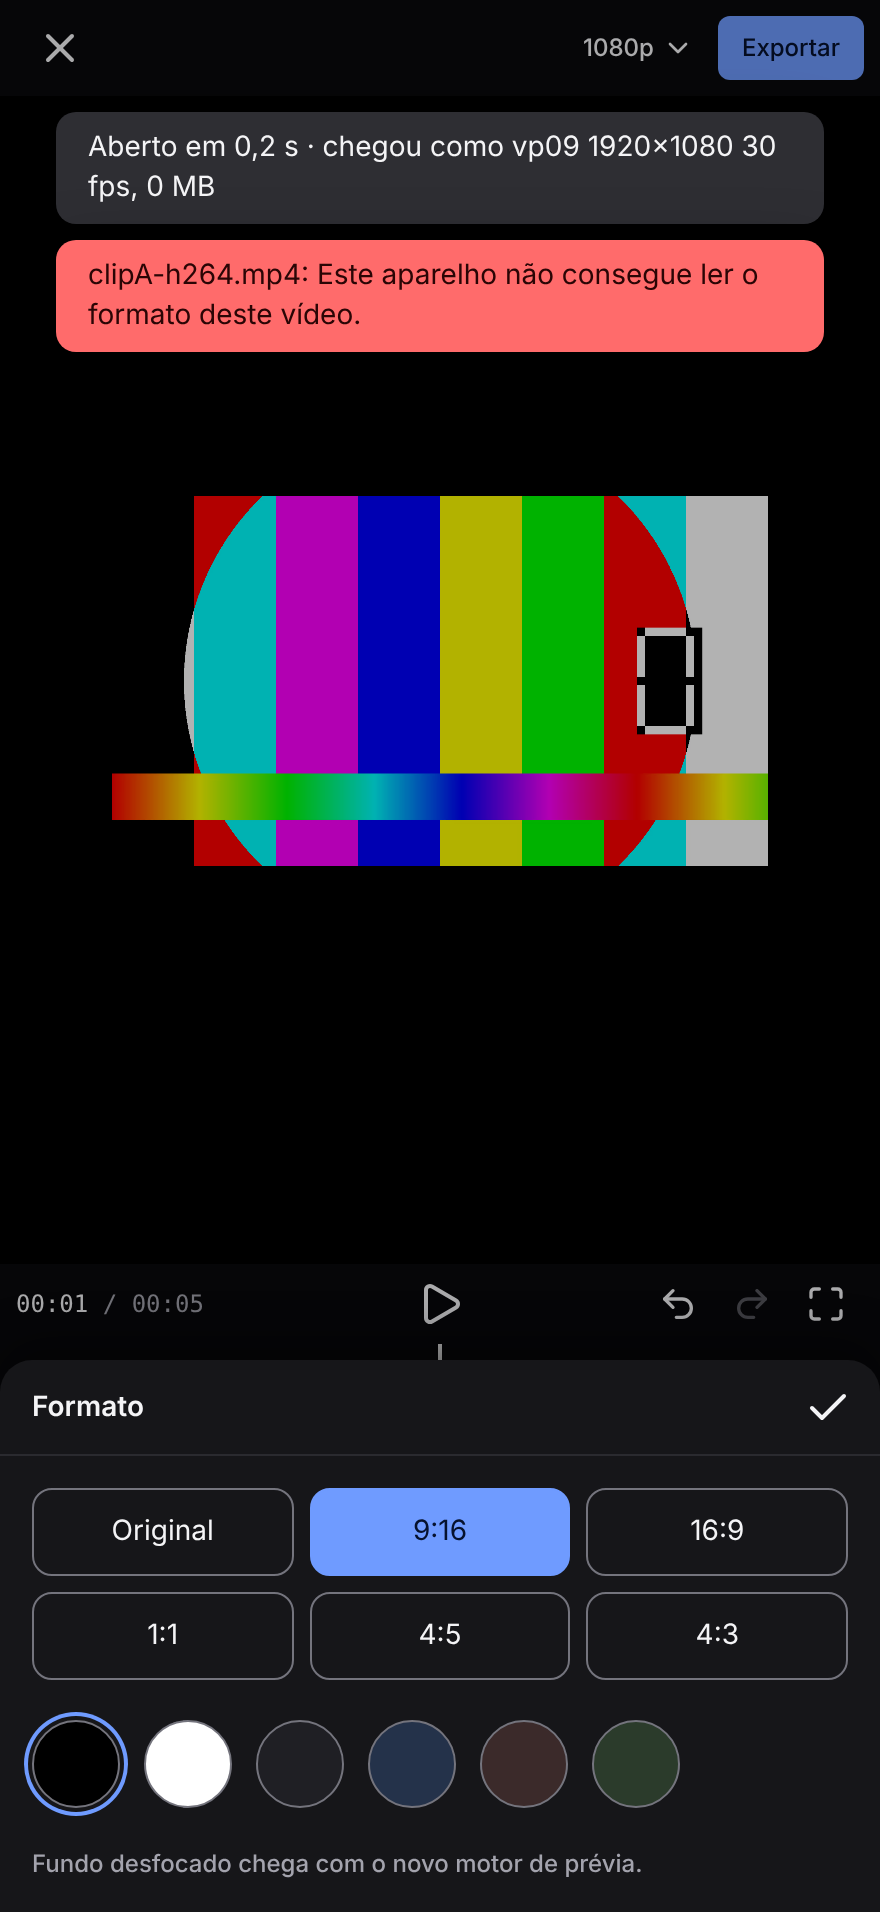
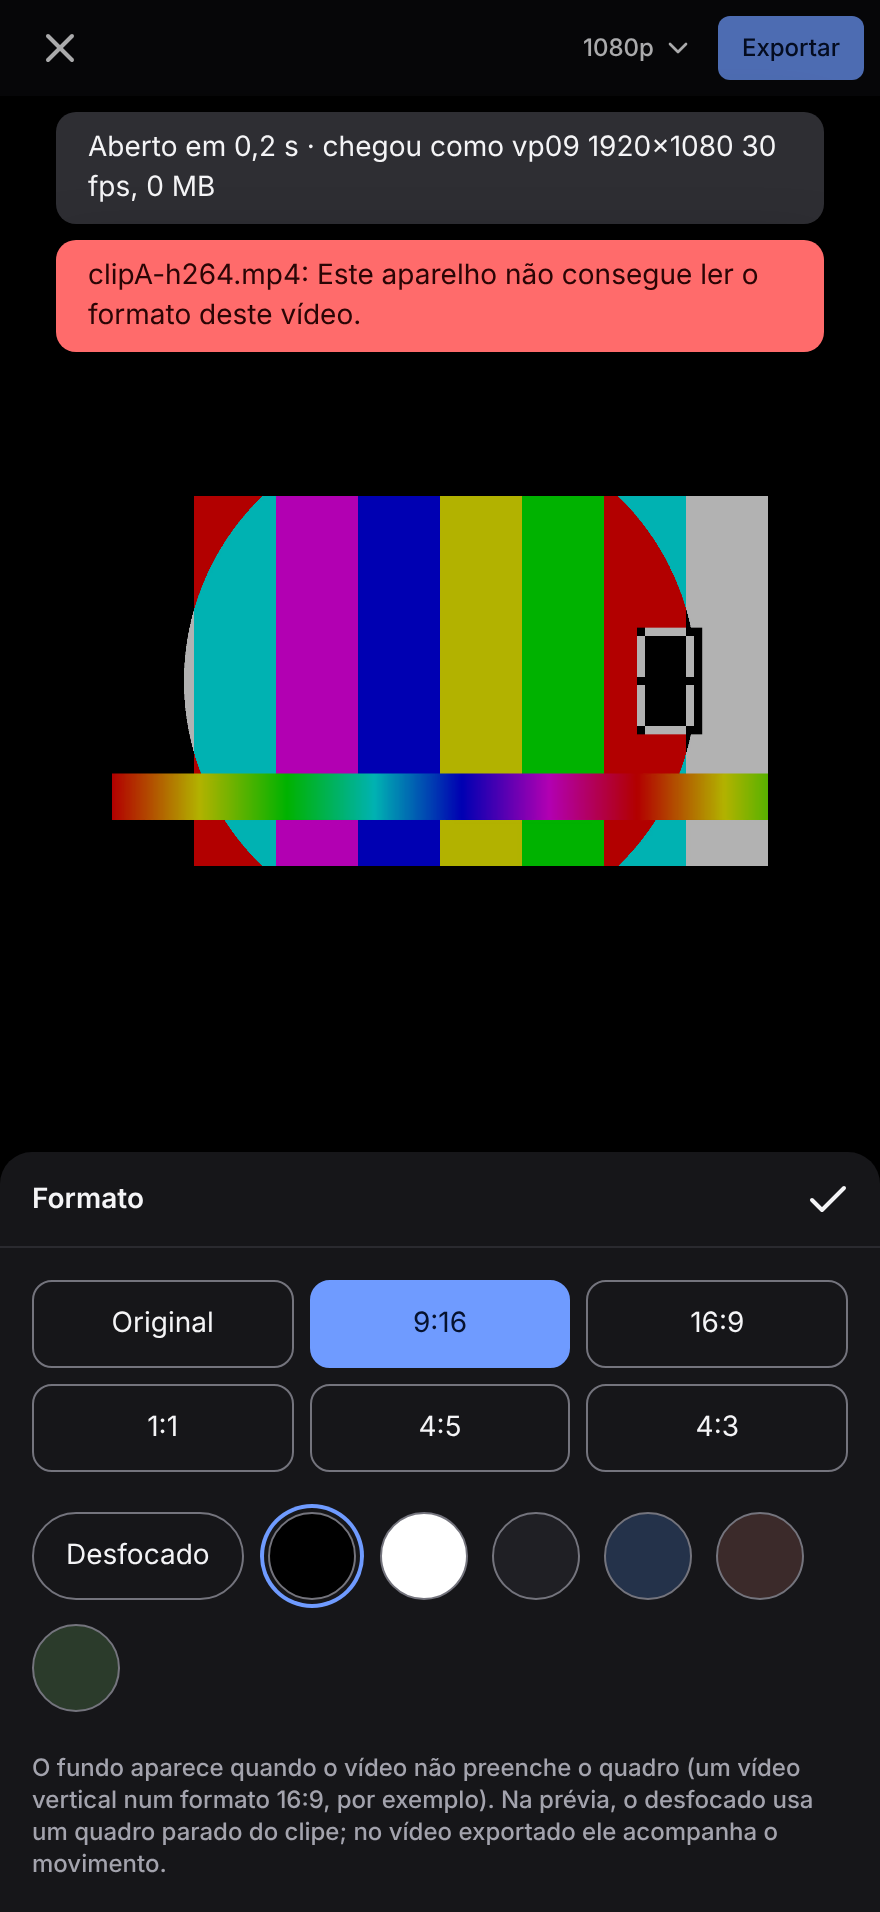
Close the must-haves: blurred background, missing-media check, offline
Blurred background behind pictures that don't fill the frame (export
follows the motion; preview blurs a still), and end-to-end checks for
replacing missing media and for opening the app offline.

Claude-Session: https://claude.ai/code/session_0171u1mNBnwSWvSmcMh16wpa

Changed region(s): [[0.0, 0.5863, 1.0, 0.9874], [0.9205, 0.7097, 0.9511, 0.7406]]

diff --git a/app/src/editor/player.ts b/app/src/editor/player.ts
@@ -13,24 +13,7 @@ import { audio } from "./audio";
 import { ALL_FORMATS, BlobSource, CanvasSink, Input } from "mediabunny";
 import { durationOf, frameSize, gainAt, mainClips, mainTrack, sourceTimeUs, transitionAt } from "./timeline";
 import { fxOf, layerCss, type LayerFx } from "./transitions";
-
-export function drawContain(
-  ctx: CanvasRenderingContext2D | OffscreenCanvasRenderingContext2D,
-  src: CanvasImageSource,
-  srcW: number,
-  srcH: number,
-  bg: string,
-) {
-  const W = ctx.canvas.width;
-  const H = ctx.canvas.height;
-  ctx.fillStyle = bg;
-  ctx.fillRect(0, 0, W, H);
-  if (!srcW || !srcH) return;
-  const s = Math.min(W / srcW, H / srcH);
-  const w = srcW * s;
-  const h = srcH * s;
-  ctx.drawImage(src, (W - w) / 2, (H - h) / 2, w, h);
-}
+import { containDraw, frameBgOf, drawFrame } from "./frame";
 
 export class Player {
   private urls = new Map<Id, string>();
@@ -58,6 +41,7 @@ export class Player {
     private canvas: HTMLCanvasElement,
     private fxCanvas: HTMLCanvasElement,
     private dip: HTMLElement,
+    private bgCanvas: HTMLCanvasElement,
   ) {
     video.playsInline = true;
     video.preload = "auto";
@@ -110,6 +94,8 @@ export class Player {
         this.stillsReady.set(key, b);
         const s = useEditor.getState();
         if (!s.playing) this.applyTransition(s.playheadUs);
+        this.bgKey = "";
+        this.paintBg();
       });
     }
     return null;
@@ -121,6 +107,34 @@ export class Player {
     el.style.transform = css.transform ?? "";
     el.style.clipPath = css.clipPath ?? "";
     el.style.zIndex = fx ? String(z) : "";
+  }
+
+  // Blurred background behind a video that does not fill the frame: a
+  // still of the clip, softened with CSS. Light, and the blur hides that it
+  // does not move.
+  private bgKey = "";
+  paintBg() {
+    const { doc, draft, assets } = useEditor.getState();
+    const d = draft ?? doc;
+    const clip = d && mainClips(d).find((c) => c.id === this.clipId);
+    const asset = clip && assets.get(clip.assetId);
+    if (!d || d.canvas.background.type !== "blur" || !clip || !asset || asset.kind === "image") {
+      this.bgCanvas.style.visibility = "hidden";
+      this.bgKey = "";
+      return;
+    }
+    const key = `${clip.id}`;
+    if (this.bgKey === key) return;
+    const bmp = this.still(asset, clip.inUs);
+    if (!bmp) return; // painted when the still is ready
+    const c = this.bgCanvas;
+    c.width = 160;
+    c.height = Math.round((160 * this.video.clientHeight) / Math.max(1, this.video.clientWidth)) || 284;
+    const ctx = c.getContext("2d")!;
+    const s = Math.max(c.width / bmp.width, c.height / bmp.height);
+    ctx.drawImage(bmp, (c.width - bmp.width * s) / 2, (c.height - bmp.height * s) / 2, bmp.width * s, bmp.height * s);
+    c.style.visibility = "visible";
+    this.bgKey = key;
   }
 
   // Shows the transition under tUs, or clears it. The playing clip is the
@@ -159,8 +173,7 @@ export class Player {
     }
     const key = `${stillClip.id}:${liveIsA}`;
     if (bmp && this.fxShown !== key) {
-      const bg = d.canvas.background.type === "color" ? d.canvas.background.color : "#000000";
-      drawContain(this.fxCanvas.getContext("2d")!, bmp, bmp.width, bmp.height, bg);
+      drawFrame(this.fxCanvas.getContext("2d")!, frameBgOf(d), containDraw(bmp, bmp.width, bmp.height));
       this.fxShown = key;
     } else if (!bmp) this.fxShown = "pending";
     this.fxCanvas.style.visibility = bmp ? "visible" : "hidden";
@@ -225,8 +238,7 @@ export class Player {
       this.canvas.width = width;
       this.canvas.height = height;
     }
-    const bg = d.canvas.background.type === "color" ? d.canvas.background.color : "#000000";
-    drawContain(this.canvas.getContext("2d")!, bmp, bmp.width, bmp.height, bg);
+    drawFrame(this.canvas.getContext("2d")!, frameBgOf(d), containDraw(bmp, bmp.width, bmp.height));
     this.show("image");
   }
 
@@ -277,6 +289,7 @@ export class Player {
     const asset = hit && assets.get(hit.clip.assetId);
     if (!hit || !asset) return this.show("none");
     this.clipId = hit.clip.id;
+    this.paintBg();
     if (asset.kind === "image") return this.paintImage(asset);
     const url = await this.urlFor(asset);
     if (!url || this.disposed) return this.show("none");
@@ -329,6 +342,7 @@ export class Player {
     const asset = useEditor.getState().assets.get(clip.assetId);
     this.clipId = clip.id;
     this.imageClock = null;
+    this.paintBg();
     if (!asset || asset.kind === "image") {
       this.video.pause();
       this.imageClock = { wall: performance.now(), t: clip.startUs + offsetUs };

diff --git a/app/src/screens/Editor.tsx b/app/src/screens/Editor.tsx
@@ -117,6 +117,7 @@ export function Editor({ projectId }: { projectId: Id }) {
   const canvasRef = useRef<HTMLCanvasElement>(null);
   const fxCanvasRef = useRef<HTMLCanvasElement>(null);
   const dipRef = useRef<HTMLDivElement>(null);
+  const bgCanvasRef = useRef<HTMLCanvasElement>(null);
   const stageBox = useRef<HTMLDivElement>(null);
   const [box, setBox] = useState({ w: 0, h: 0 });
   const player = useRef<Player | null>(null);
@@ -167,8 +168,8 @@ export function Editor({ projectId }: { projectId: Id }) {
   }, [projectId]);
 
   useEffect(() => {
-    if (state !== "ready" || !videoRef.current || !canvasRef.current || !fxCanvasRef.current || !dipRef.current) return;
-    const p = new Player(videoRef.current, canvasRef.current, fxCanvasRef.current, dipRef.current);
+    if (state !== "ready" || !videoRef.current || !canvasRef.current || !fxCanvasRef.current || !dipRef.current || !bgCanvasRef.current) return;
+    const p = new Player(videoRef.current, canvasRef.current, fxCanvasRef.current, dipRef.current, bgCanvasRef.current);
     player.current = p;
     void p.showAt(useEditor.getState().playheadUs);
     // repaint the frame under the playhead whenever it or the doc changes
@@ -259,6 +260,7 @@ export function Editor({ projectId }: { projectId: Id }) {
   const fit = Math.min(box.w / frame.width, box.h / frame.height) || 0;
   const stage = { w: Math.floor(frame.width * fit), h: Math.floor(frame.height * fit) };
   const bg = doc?.canvas.background.type === "color" ? doc.canvas.background.color : "#000000";
+  const blurBg = doc?.canvas.background.type === "blur";
 
   function togglePlay() {
     if (!player.current) return;
@@ -446,6 +448,13 @@ export function Editor({ projectId }: { projectId: Id }) {
           className={cn("relative overflow-hidden", state !== "ready" && "hidden")}
           style={{ width: stage.w, height: stage.h, background: bg }}
         >
+          {/* blurred background (when the format sheet asks for it) */}
+          <canvas
+            ref={bgCanvasRef}
+            aria-hidden
+            className="pointer-events-none absolute inset-0 size-full scale-110 blur-xl brightness-75"
+            style={{ visibility: "hidden" }}
+          />
           <video
             ref={videoRef}
             aria-label="Prévia do vídeo"
@@ -719,7 +728,23 @@ export function Editor({ projectId }: { projectId: Id }) {
                 </button>
               ))}
             </div>
-            <div role="radiogroup" aria-label="Cor do fundo" className="flex gap-3">
+            <div role="radiogroup" aria-label="Cor do fundo" className="flex flex-wrap gap-3">
+              <button
+                type="button"
+                role="radio"
+                aria-checked={blurBg}
+                aria-label="Fundo desfocado"
+                onClick={() => {
+                  const d = useEditor.getState().doc!;
+                  ed.commit({ ...d, canvas: { ...d.canvas, background: { type: "blur", amount: 30 } } }, "Fundo");
+                }}
+                className={cn(
+                  "flex h-11 items-center rounded-pill border border-border-input px-4 text-sm",
+                  blurBg && "ring-2 ring-accent ring-offset-2 ring-offset-surface",
+                )}
+              >
+                Desfocado
+              </button>
               {BACKGROUNDS.map((c) => {
                 const on = doc.canvas.background.type === "color" && doc.canvas.background.color === c;
                 return (
@@ -739,7 +764,10 @@ export function Editor({ projectId }: { projectId: Id }) {
                 );
               })}
             </div>
-            <p className="text-xs text-text-muted">Fundo desfocado chega com o novo motor de prévia.</p>
+            <p className="text-xs text-text-muted">
+              O fundo aparece quando o vídeo não preenche o quadro (um vídeo vertical num formato 16:9, por exemplo). Na prévia, o
+              desfocado usa um quadro parado do clipe; no vídeo exportado ele acompanha o movimento.
+            </p>
           </div>
         )}
       </Sheet>

diff --git a/app/src/editor/frame.ts b/app/src/editor/frame.ts
@@ -1,0 +1,91 @@
+// Drawing a clip's picture into the project frame, over its background: a
+// colour, or a blurred, darkened copy of the picture itself filling the frame
+// (for a vertical video in a 16:9 project, say).
+import type { TimelineDoc } from "../data/db";
+
+export type FrameBg = { kind: "color"; color: string } | { kind: "blur" };
+
+export function frameBgOf(doc: TimelineDoc): FrameBg {
+  const b = doc.canvas.background;
+  return b.type === "blur" ? { kind: "blur" } : { kind: "color", color: b.type === "color" ? b.color : "#000000" };
+}
+
+type Ctx = CanvasRenderingContext2D | OffscreenCanvasRenderingContext2D;
+type Rect = { x: number; y: number; w: number; h: number };
+
+export function containRect(srcW: number, srcH: number, W: number, H: number): Rect {
+  const s = Math.min(W / srcW, H / srcH);
+  const w = srcW * s;
+  const h = srcH * s;
+  return { x: (W - w) / 2, y: (H - h) / 2, w, h };
+}
+
+// Scratch canvases, reused between frames (resized when the frame changes).
+let fg: OffscreenCanvas | null = null;
+let small: OffscreenCanvas | null = null;
+let tiny: OffscreenCanvas | null = null;
+function scratch(c: OffscreenCanvas | null, w: number, h: number) {
+  if (!c) return new OffscreenCanvas(w, h);
+  if (c.width !== w || c.height !== h) {
+    c.width = w;
+    c.height = h;
+  }
+  return c;
+}
+
+// Blur by shrinking twice and stretching back with smoothing: cheap, and
+// works in every browser (canvas `filter` is not everywhere).
+function drawBlurred(ctx: Ctx, src: CanvasImageSource, r: Rect) {
+  const W = ctx.canvas.width;
+  const H = ctx.canvas.height;
+  small = scratch(small, Math.max(2, Math.ceil(W / 8)), Math.max(2, Math.ceil(H / 8)));
+  tiny = scratch(tiny, Math.max(2, Math.ceil(W / 40)), Math.max(2, Math.ceil(H / 40)));
+  const sctx = small.getContext("2d")!;
+  // cover: the picture's own rectangle scaled to fill the whole frame
+  const s = Math.max(small.width / r.w, small.height / r.h);
+  const w = r.w * s;
+  const h = r.h * s;
+  sctx.imageSmoothingQuality = "high";
+  sctx.drawImage(src, r.x, r.y, r.w, r.h, (small.width - w) / 2, (small.height - h) / 2, w, h);
+  const tctx = tiny.getContext("2d")!;
+  tctx.imageSmoothingQuality = "high";
+  tctx.drawImage(small, 0, 0, tiny.width, tiny.height);
+  ctx.save();
+  ctx.imageSmoothingEnabled = true;
+  ctx.imageSmoothingQuality = "high";
+  ctx.drawImage(tiny, 0, 0, W, H);
+  ctx.fillStyle = "rgba(0,0,0,0.3)";
+  ctx.fillRect(0, 0, W, H);
+  ctx.restore();
+}
+
+// draw() paints the picture letterboxed onto the context it is given and
+// returns where it went; this function puts the background under it.
+export function drawFrame(ctx: Ctx, bg: FrameBg, draw: (c: Ctx) => Rect | null) {
+  const W = ctx.canvas.width;
+  const H = ctx.canvas.height;
+  if (bg.kind === "color") {
+    ctx.fillStyle = bg.color;
+    ctx.fillRect(0, 0, W, H);
+    draw(ctx);
+    return;
+  }
+  fg = scratch(fg, W, H);
+  const f = fg.getContext("2d")!;
+  f.clearRect(0, 0, W, H);
+  const r = draw(f);
+  ctx.fillStyle = "#000000";
+  ctx.fillRect(0, 0, W, H);
+  if (r && r.w > 1 && r.h > 1) drawBlurred(ctx, fg, r);
+  ctx.drawImage(fg, 0, 0);
+}
+
+// Letterboxed image (bitmap, canvas...) — the common case of draw().
+export function containDraw(src: CanvasImageSource, srcW: number, srcH: number) {
+  return (c: Ctx) => {
+    if (!srcW || !srcH) return null;
+    const r = containRect(srcW, srcH, c.canvas.width, c.canvas.height);
+    c.drawImage(src, r.x, r.y, r.w, r.h);
+    return r;
+  };
+}

diff --git a/app/src/export/exporter.ts b/app/src/export/exporter.ts
@@ -20,7 +20,7 @@ import {
 } from "mediabunny";
 import type { AssetRow, Id, MediaClip, TimelineDoc } from "../data/db";
 import { assetFile } from "../media/import";
-import { drawContain } from "../editor/player";
+import { containDraw, containRect, drawFrame, frameBgOf } from "../editor/frame";
 import { drawText, loadFonts, textsAt } from "../editor/text";
 import { drawTransition } from "../editor/transitions";
 import { scheduleEnvelope } from "../editor/audio";
@@ -145,6 +145,11 @@ export async function exportTimeline(
   const canvas = new OffscreenCanvas(width, height);
   const ctx = canvas.getContext("2d")!;
   const bg = doc.canvas.background.type === "color" ? doc.canvas.background.color : "#000000";
+  const fbg = frameBgOf(doc);
+  const sampleDraw = (s: VideoSample) => (c: OffscreenCanvasRenderingContext2D | CanvasRenderingContext2D) => {
+    s.drawWithFit(c, { fit: "contain" });
+    return containRect(s.displayWidth, s.displayHeight, c.canvas.width, c.canvas.height);
+  };
   const inputs = new Map<Id, Input>();
 
   const output = new Output({ format: new Mp4OutputFormat({ fastStart: "in-memory" }), target: new BufferTarget() });
@@ -176,22 +181,18 @@ export async function exportTimeline(
     const makeStill = async (clip: MediaClip, us: number) => {
       const c = new OffscreenCanvas(width, height);
       const cx = c.getContext("2d")!;
-      cx.fillStyle = bg;
-      cx.fillRect(0, 0, width, height);
       const a = assets.get(clip.assetId);
       if (a?.kind === "image") {
         const file = await assetFile(a);
-        if (file) {
-          const bmp = await createImageBitmap(file);
-          drawContain(cx, bmp, bmp.width, bmp.height, bg);
-          bmp.close();
-        }
+        const bmp = file ? await createImageBitmap(file) : null;
+        drawFrame(cx, fbg, bmp ? containDraw(bmp, bmp.width, bmp.height) : () => null);
+        bmp?.close();
       } else if (a) {
         const track = await (await openInput(a, inputs)).getPrimaryVideoTrack();
         const sample = track ? await new VideoSampleSink(track).getSample(us / 1e6) : null;
-        sample?.drawWithFit(cx, { fit: "contain" });
+        drawFrame(cx, fbg, sample ? sampleDraw(sample) : () => null);
         sample?.close();
-      }
+      } else drawFrame(cx, fbg, () => null);
       return c;
     };
 
@@ -224,8 +225,7 @@ export async function exportTimeline(
 
       if (!asset) {
         for (let f = first; f < last; f++) {
-          lctx.fillStyle = bg;
-          lctx.fillRect(0, 0, width, height);
+          drawFrame(lctx, fbg, () => null);
           await emit();
         }
       } else if (asset.kind === "image") {
@@ -234,7 +234,7 @@ export async function exportTimeline(
         const bmp = await createImageBitmap(file);
         try {
           for (let f = first; f < last; f++) {
-            drawContain(lctx, bmp, bmp.width, bmp.height, bg);
+            drawFrame(lctx, fbg, containDraw(bmp, bmp.width, bmp.height));
             await emit();
           }
         } finally {
@@ -270,9 +270,7 @@ export async function exportTimeline(
               current = next;
               next = ended ? null : await pull();
             }
-            lctx.fillStyle = bg;
-            lctx.fillRect(0, 0, width, height);
-            current?.drawWithFit(lctx, { fit: "contain" });
+            drawFrame(lctx, fbg, current ? sampleDraw(current) : () => null);
             await emit();
           }
         } catch (err) {

diff --git a/replica/build-log.md b/replica/build-log.md
@@ -65,7 +65,7 @@ is the only full fix. The test buttons were removed.
 | S12 Sobrepor | — | stub | everything | — |
 | S13 Efeitos / Stickers | — | stub | everything | — |
 | S14 Filtros e Ajustar | — | stub | everything | — |
-| S15 Formato | 2026-10-17 | partial | blurred and image backgrounds | — |
+| S15 Formato | 2026-10-18 | done | image background | blur without canvas `filter` (not in every Safari): shrink twice and stretch back; the preview blurs a still with CSS so HDR video is never drawn on a canvas |
 | S16 Keyframes | — | not started | — | — |
 | S17 Exportar | 2026-10-17 | done | the file is kept in memory, not in OPFS (fine up to a few minutes of 1080p; long 4K needs a streaming target) | choosing the codec at runtime: this test browser had no H.264, so it exported VP9/Opus in MP4; the iPhone should pick H.264 |
 
